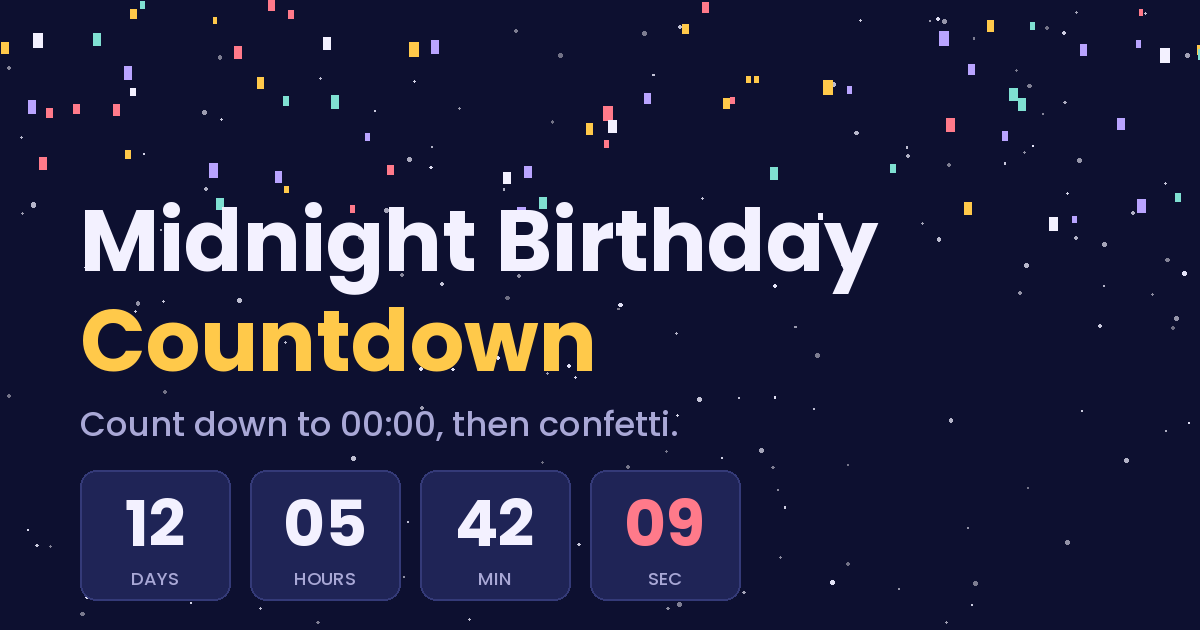
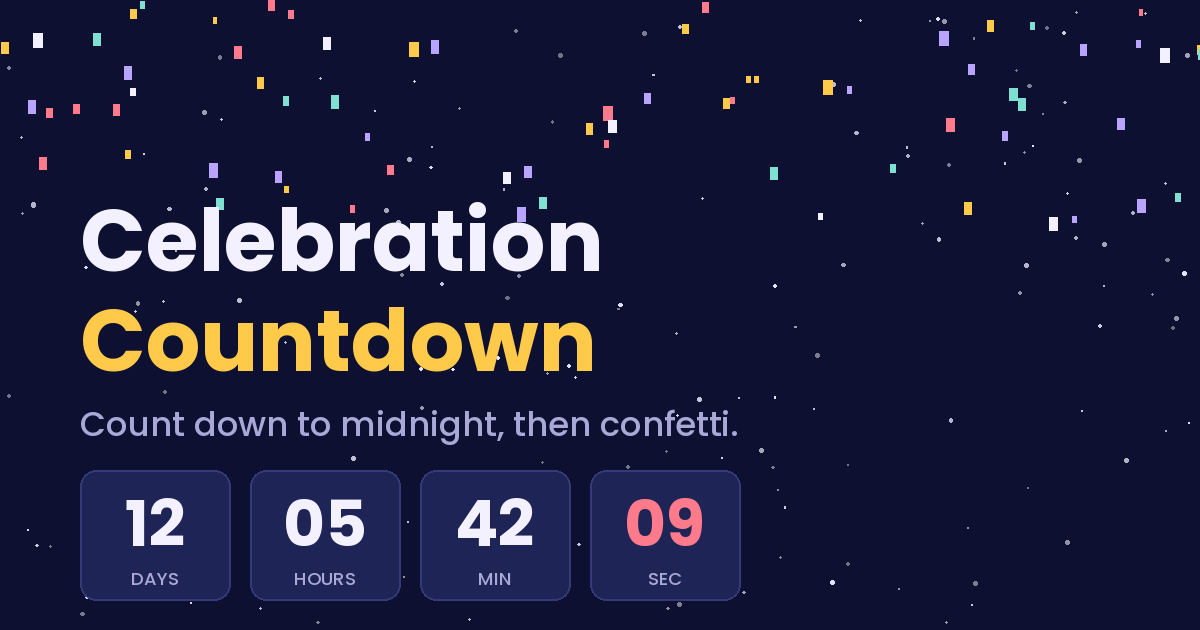
Rename to Celebration Countdown; point URLs at celebration-countdown
Claude-Session: https://claude.ai/code/session_019xQhJwexcQNbq435ayMB7x

Changed region(s): [[0.0617, 0.3016, 0.74, 0.4825], [0.2775, 0.6333, 0.6167, 0.7238]]

diff --git a/404.html b/404.html
@@ -3,8 +3,8 @@
 <head>
 <meta charset="utf-8">
 <meta name="viewport" content="width=device-width, initial-scale=1, viewport-fit=cover">
-<title>Midnight Birthday Countdown</title>
-<meta name="description" content="A full-screen countdown to midnight on someone's birthday, with confetti when the clock hits zero. Works in any time zone. Free, no sign-up.">
+<title>Celebration Countdown</title>
+<meta name="description" content="A full-screen countdown to midnight on a birthday, with confetti when the clock hits zero. Works in any time zone. Free, no sign-up.">
 <meta name="theme-color" content="#0d1030">
 <link rel="manifest" href="manifest.webmanifest">
 <link rel="icon" href="icons/favicon.png" type="image/png">
@@ -15,10 +15,10 @@
 <meta name="apple-mobile-web-app-title" content="Countdown">
 
 <meta property="og:type" content="website">
-<meta property="og:title" content="Midnight Birthday Countdown">
-<meta property="og:description" content="Count down to midnight on their birthday, then celebrate with confetti.">
-<meta property="og:image" content="https://karthick-mallow.github.io/birthday-countdown/icons/og-image.png">
-<meta property="og:url" content="https://karthick-mallow.github.io/birthday-countdown/">
+<meta property="og:title" content="Celebration Countdown">
+<meta property="og:description" content="Count down to midnight on the big day, then celebrate with confetti.">
+<meta property="og:image" content="https://karthick-mallow.github.io/celebration-countdown/icons/og-image.png">
+<meta property="og:url" content="https://karthick-mallow.github.io/celebration-countdown/">
 <meta name="twitter:card" content="summary_large_image">
 
 <link rel="preconnect" href="https://fonts.googleapis.com">

diff --git a/index.html b/index.html
@@ -3,8 +3,8 @@
 <head>
 <meta charset="utf-8">
 <meta name="viewport" content="width=device-width, initial-scale=1, viewport-fit=cover">
-<title>Midnight Birthday Countdown</title>
-<meta name="description" content="A full-screen countdown to midnight on someone's birthday, with confetti when the clock hits zero. Works in any time zone. Free, no sign-up.">
+<title>Celebration Countdown</title>
+<meta name="description" content="A full-screen countdown to midnight on a birthday, with confetti when the clock hits zero. Works in any time zone. Free, no sign-up.">
 <meta name="theme-color" content="#0d1030">
 <link rel="manifest" href="manifest.webmanifest">
 <link rel="icon" href="icons/favicon.png" type="image/png">
@@ -15,10 +15,10 @@
 <meta name="apple-mobile-web-app-title" content="Countdown">
 
 <meta property="og:type" content="website">
-<meta property="og:title" content="Midnight Birthday Countdown">
-<meta property="og:description" content="Count down to midnight on their birthday, then celebrate with confetti.">
-<meta property="og:image" content="https://karthick-mallow.github.io/birthday-countdown/icons/og-image.png">
-<meta property="og:url" content="https://karthick-mallow.github.io/birthday-countdown/">
+<meta property="og:title" content="Celebration Countdown">
+<meta property="og:description" content="Count down to midnight on the big day, then celebrate with confetti.">
+<meta property="og:image" content="https://karthick-mallow.github.io/celebration-countdown/icons/og-image.png">
+<meta property="og:url" content="https://karthick-mallow.github.io/celebration-countdown/">
 <meta name="twitter:card" content="summary_large_image">
 
 <link rel="preconnect" href="https://fonts.googleapis.com">

diff --git a/sw.js b/sw.js
@@ -1,5 +1,5 @@
 // Offline support: app shell cache-first, fonts stale-while-revalidate.
-const VERSION = 'bdc-v2';
+const VERSION = 'bdc-v3';
 const SHELL = ['./', 'index.html', 'styles.css', 'app.js', 'manifest.webmanifest',
   'icons/icon-192.png', 'icons/icon-512.png', 'icons/favicon.png', 'icons/apple-touch-icon.png'];
 

diff --git a/README.md b/README.md
@@ -1,8 +1,8 @@
-# Midnight Birthday Countdown
+# Celebration Countdown
 
 A full-screen countdown to 00:00 on someone's birthday, with confetti when it hits zero.
 
-**Live:** https://karthick-mallow.github.io/birthday-countdown/
+**Live:** https://karthick-mallow.github.io/celebration-countdown/
 
 ## Features
 - Countdown to midnight in **any time zone** (DST-safe). Viewers elsewhere see their own local time too.
